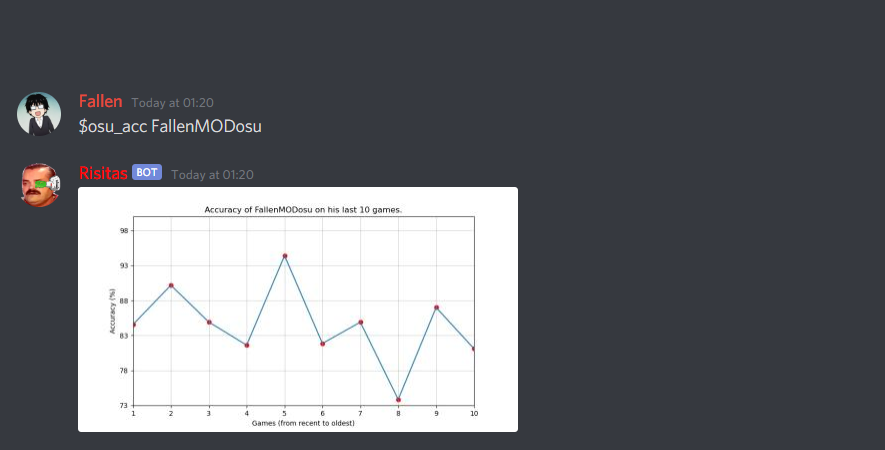
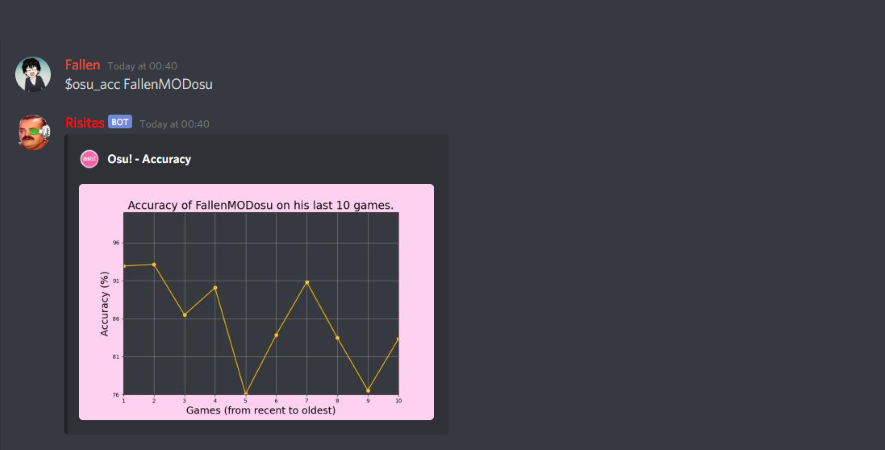
🎨 - $osu_acc graphic style improvement

Changed region(s): [[0.0, 0.1244, 0.6102, 0.9644]]

diff --git a/python/main.py b/python/main.py
@@ -128,7 +128,7 @@ async def rank(ctx, arg, argf=None):
             embed = discord.Embed(title=arg, url='https://www.youtube.com/watch?v=dQw4w9WgXcQ')
             embed.set_thumbnail(url='http://ddragon.leagueoflegends.com/cdn/11.2.1/img/profileicon/' + str(
                 player['profileIconId']) + '.png')
-            embed.set_author(name='League Of Legend', url='https://euw.leagueoflegends.com/en-gb/',
+            embed.set_author(name='League Of Legend - Rank', url='https://euw.leagueoflegends.com/en-gb/',
                 icon_url='https://static.wikia.nocookie.net/leagueoflegends/images/0/07/' + 
                 'League_of_Legends_icon.png/revision/latest?cb=20191018194326')
             if isinstance(ranks, list):
@@ -174,7 +174,7 @@ async def osu_profile(ctx, arg, argF=None):
             await ctx.send('The username you entered is unknown.')
         else:
             embed = discord.Embed(title=arg, url='https://osu.ppy.sh/users/' + str(lst[0]))
-            embed.set_author(name='Osu!', url='https://osu.ppy.sh/home',
+            embed.set_author(name='Osu! - Profile', url='https://osu.ppy.sh/home',
                 icon_url=r'https://upload.wikimedia.org/wikipedia/commons/4/44/Osu%21Logo_%282019%29.png')
             embed.set_thumbnail(url='https://a.ppy.sh/' + str(lst[0]))
             embed.add_field(name='Global Ranking',  value='#'+str('{:,}'.format(lst[8])))
@@ -205,7 +205,7 @@ async def osu_lastgame(ctx, arg, argF=None):
                 description='BPM: ' + str("%.0f" % lst[3]) + ' ; Stars: ' + str("%.1f" % lst[4]) +
                 ' ; CS: ' + str(lst[5]) + ' ; AR: ' +  str(lst[7]) +
                 ' ; OD: ' + str(lst[6]) + ' ; HP: ' + str(lst[8]))
-            embed.set_author(name='Osu!', url='https://osu.ppy.sh/home',
+            embed.set_author(name='Osu! - Last game', url='https://osu.ppy.sh/home',
                 icon_url=r'https://upload.wikimedia.org/wikipedia/commons/4/44/Osu%21Logo_%282019%29.png')
             embed.set_thumbnail(url='https://b.ppy.sh/thumb/' + str(lst[0]) + 'l.jpg')
             embed.add_field(name='Rank',      value=str(lst[11]))
@@ -231,7 +231,10 @@ async def osu_acc(ctx, arg, argF=None):
     if argF is None:
         test_acc = await ask_osu_acc(arg)
         if test_acc:
-            await ctx.send(file=discord.File('acc.jpeg'))
+            embed = discord.Embed()
+            embed.set_author(name='Osu! - Accuracy', icon_url=r'https://upload.wikimedia.org/wikipedia/commons/4/44/Osu%21Logo_%282019%29.png')
+            embed.set_image(url="attachment://acc.jpeg")
+            await ctx.send(embed=embed, file=discord.File('acc.jpeg'))
         else:
             await ctx.send('The player you entered is unknown or didn\'t played any game recently.')
     else:

diff --git a/python/osu_api.py b/python/osu_api.py
@@ -40,15 +40,21 @@ async def ask_osu_acc(username):
     nb_games = len(lst)+1
     min_games = int(min(lst))
 
-    plt.figure(figsize=(9, 5))
-    plt.plot(list(range(1, nb_games)), lst)
-    plt.scatter(list(range(1, nb_games)), lst, color='red')
+    plt.figure(figsize=(9, 6))
+
+    plt.rc('axes', labelsize=18)
+
+    plt.plot(list(range(1, nb_games)), lst, color='#ffbf00')
+    plt.scatter(list(range(1, nb_games)), lst, color='#ffca2b')
     plt.axis([1, nb_games-1, min_games, 100])
-    plt.title('Accuracy of ' + username + ' on his last ' + str(nb_games-1) + ' games.')
     plt.xticks(range(1, nb_games))
     plt.yticks(range(min_games, 100, 5))
+
     plt.grid(linewidth=0.5)
+    plt.title('Accuracy of ' + username + ' on his last ' + str(nb_games-1) + ' games.', fontsize=20)
     plt.ylabel('Accuracy (%)')
     plt.xlabel('Games (from recent to oldest)')
-    plt.savefig('acc.jpeg')
+
+    plt.gca().set_facecolor('#36393f')
+    plt.savefig('acc.jpeg', facecolor='#ffd1f1')
     return 1
